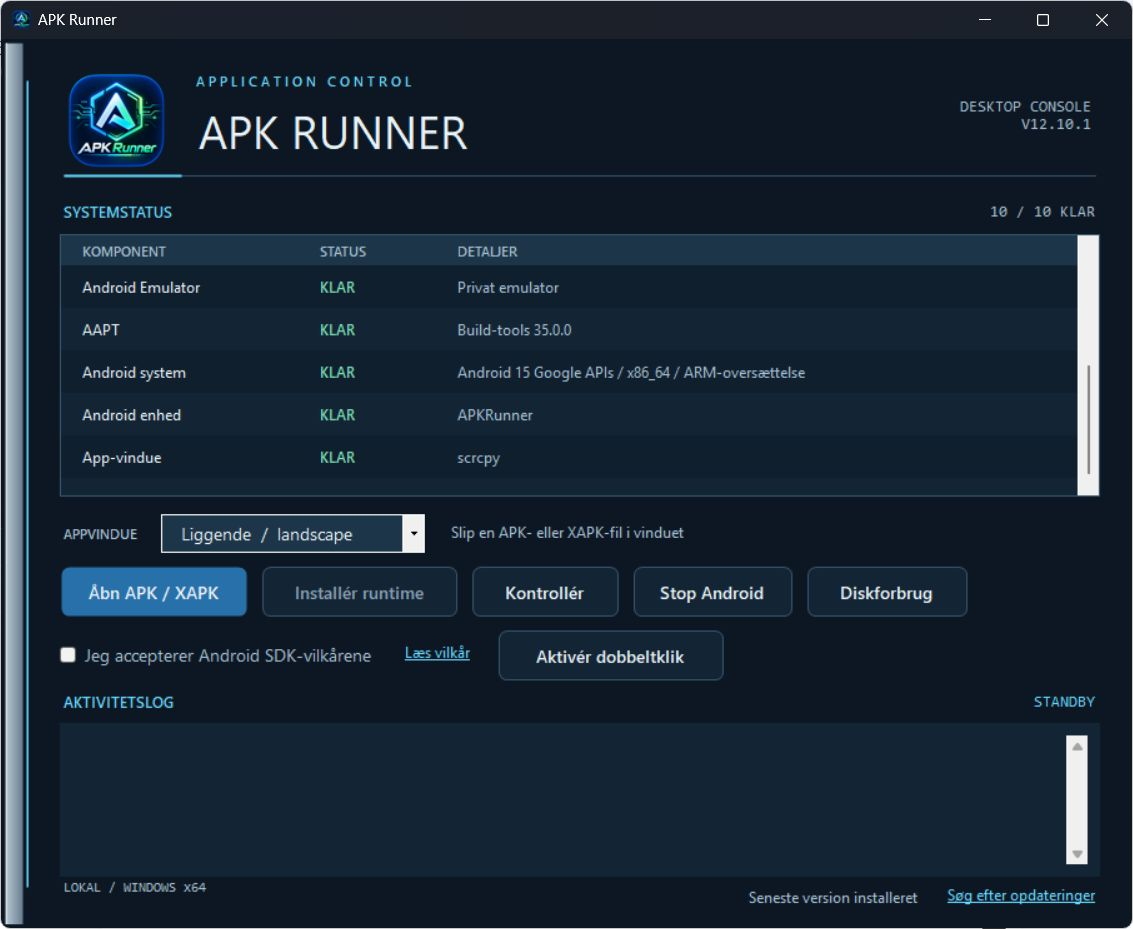
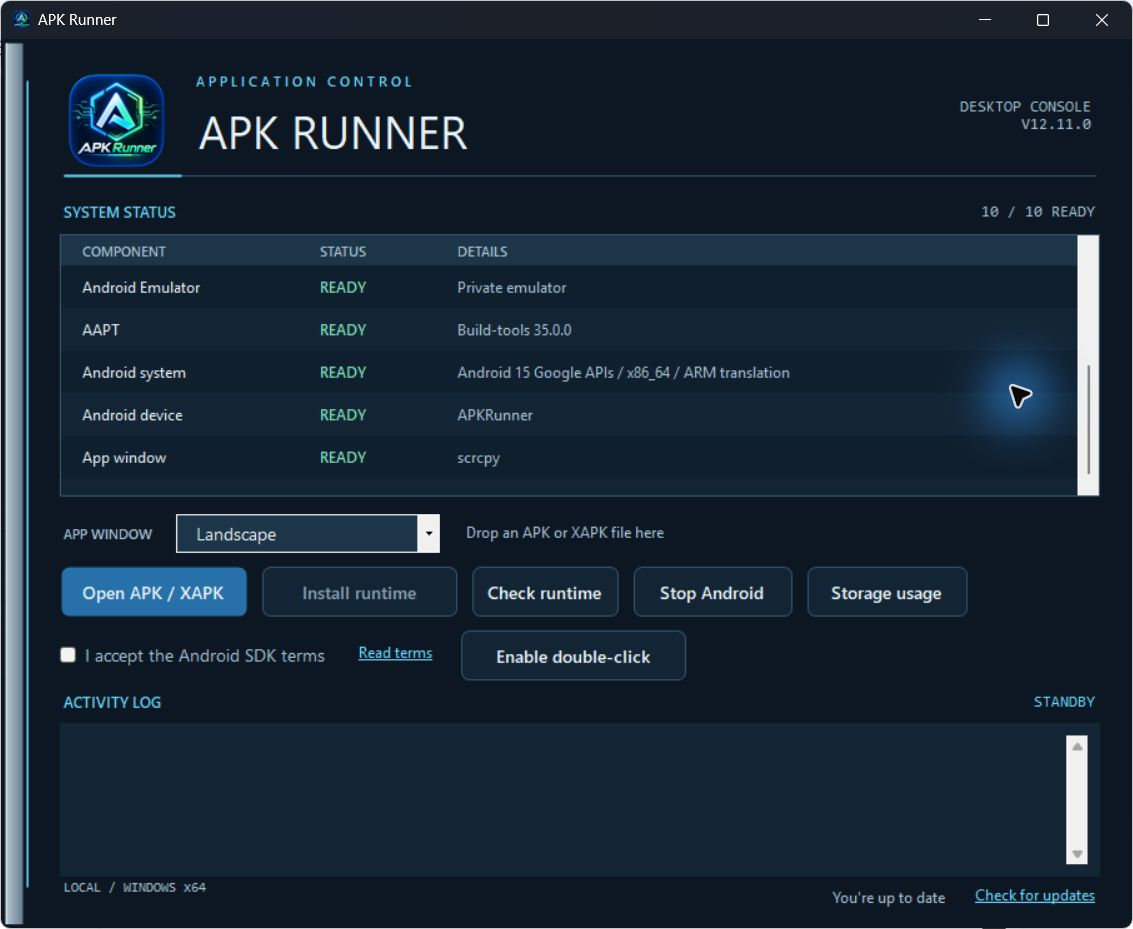
Refresh screenshot for the English 12.11.0 interface

diff --git a/docs/ARTWORK.md b/docs/ARTWORK.md
@@ -14,6 +14,6 @@ The generated PNG is stored in this repository, so the README does not depend on
 
 ## Application screenshot
 
-`images/apk-runner-screenshot.jpg` is an unmodified window capture of the installed APK Runner **12.10.1**, taken on **2026-10-21** with Windows Graphics Capture through the computer-use tool. It is not generated artwork or a fixture rendering.
+`images/apk-runner-screenshot.jpg` is an unmodified window capture of the installed APK Runner **12.11.0**, taken on **2026-10-21** with Windows Graphics Capture through the computer-use tool. It shows the current English interface and replaces the earlier Danish 12.10.1 screenshot. It is not generated artwork or a fixture rendering.
 
-The launcher is idle after its actual runtime component check. The component list is scrolled to the Android tools/device rows; no Android app was launched for this capture. Only the app window is included, and the visible content was reviewed for private paths and app data before publication. The installed version is newer than the existing 12.10.0 download.
+The launcher is idle after its actual runtime and update checks, showing **10 / 10 READY** and **You're up to date**. The component list is scrolled to the Android tools/device rows; no Android app was launched for this capture. Only the app window is included, and the visible content was reviewed for private paths and app data before publication. The captured version matches the public 12.11.0 release.

diff --git a/CONTRIBUTING.md b/CONTRIBUTING.md
@@ -15,7 +15,7 @@ Remove private paths, account information, tokens, and app content before postin
 3. Describe the behavior change and validation in your pull request. State when Android behavior was only simulated or not exercised.
 4. Update guides if controls, requirements, or setup behavior change.
 
-The current interface is primarily Danish. Keep control labels consistent and explain changes in plain language. Localization improvements are welcome.
+The current interface uses English. Keep control labels consistent and explain changes in plain language. Localization improvements are welcome.
 
 Use disposable fixtures for runtime/storage work. Tests must not silently reuse installed runtimes, register file associations, or delete a contributor's Android data. Commands that install tools, contact GitHub, change compression, or modify virtual devices must be explicit.
 

diff --git a/README.md b/README.md
@@ -14,9 +14,9 @@ This repository contains the maintained application source, build and packaging 
 
 ## App screenshot
 
-![APK Runner Windows launcher showing runtime component status, orientation selection, APK/XAPK controls, and activity log](docs/images/apk-runner-screenshot.jpg)
+![APK Runner 12.11.0 English interface showing runtime component status, orientation selection, APK/XAPK controls, and activity log](docs/images/apk-runner-screenshot.jpg)
 
-*Historical screenshot of APK Runner 12.10.1 on Windows, showing its earlier Danish interface with the runtime configured. The 12.11.0 release uses English labels; this image has not yet been replaced with a screenshot of that version.*
+*Actual screenshot of APK Runner 12.11.0 on Windows, showing the English interface with the Android runtime configured and all 10 components ready.*
 
 ## What it can do
 
